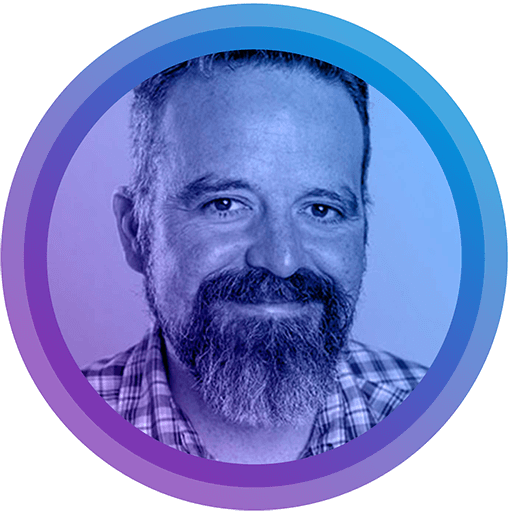
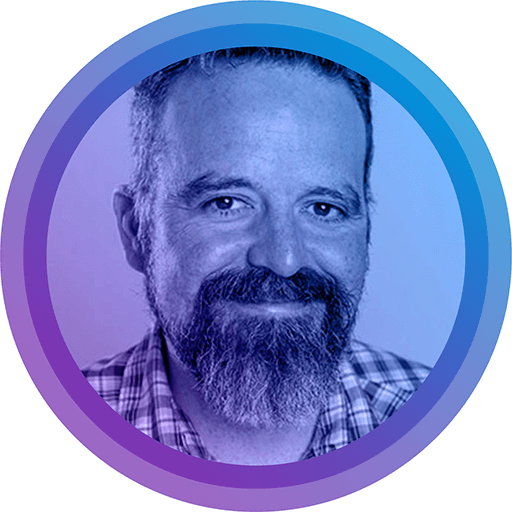
Add link to bio (#1734)
* Add link to bio

* Fix speaker image alignment

diff --git a/content/team/matt-stratton/_index.md b/content/team/matt-stratton/_index.md
@@ -20,4 +20,6 @@ Matt Stratton is a Staff Developer Advocate at Pulumi, founder and co-host of th
 
 Matt has over 20 years of experience in IT operations and is a sought-after speaker internationally, presenting at Agile, DevOps, and cloud engineering focused events worldwide. Demonstrating his keen insight into the changing landscape of technology, he recently changed his license plate from DEVOPS to KUBECTL.
 
-He lives in Chicago and has three awesome kids, whom he loves just a little bit more than he loves Diet Coke. Matt is the keeper of the Thought Leaderboard for the DevOps Party Games online game show and you can find him on Twitter at @mattstratton.
+He lives in Chicago and has three awesome kids, whom he loves just a little bit more than he loves Diet Coke. Matt is the keeper of the Thought Leaderboard for the DevOps Party Games online game show and you can find him on Twitter at <a href='https://twitter.com/mattstratton'>@mattstratton</a>.
+
+<!--more-->
